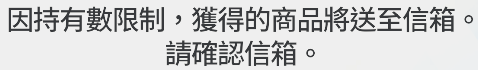
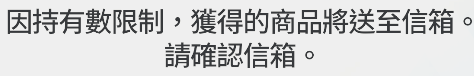
fix : template error

Changed region(s): [[0.0, 0.0857, 1.0, 0.4571], [0.3249, 0.5429, 0.6793, 0.9429]]

diff --git a/src/images/Global_zh-tw/x_y_range/main_page.py b/src/images/Global_zh-tw/x_y_range/main_page.py
@@ -10,7 +10,7 @@ x_y_range = {
     'news': (50, 102, 96, 144),
     'daily-attendance': (540, 90, 1100, 174),
     'skip-notice': (589, 309, 701, 353),
-    'full-notice': (538, 333, 742, 370),
+    'full-notice': (397, 294, 871, 370),
     'back-arrow': (37, 20, 80, 57),
     "enter-existing-fight": (516, 293, 755, 370),
     "notice": (580, 145, 699, 177),
